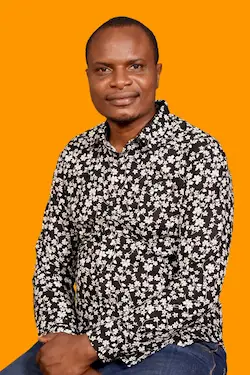
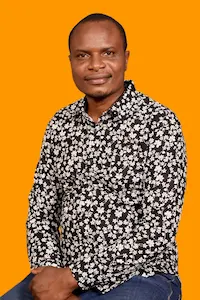
performance 99

diff --git a/styles/base.css b/styles/base.css
@@ -17,9 +17,7 @@ body {
     display: grid;
     grid-template-rows: 1fr auto 1fr;
     grid-row-gap: 20px;
-    max-width: 70vw;
-    min-width: min-content;
-    min-height: min-content;
+    max-width: 70vw;   
 }
 
 .header-content {
@@ -118,6 +116,8 @@ p {
     color: white;
     padding: 0.75rem;
     border-radius: 8px 8px 0 0;
+    white-space: nowrap;
+    
 }
 
 .aside-url {
@@ -139,7 +139,7 @@ p {
 
 .card-content {
     display: grid;
-    grid-template-rows: 4fr auto 4fr;
+    grid-template-rows: auto auto auto; 
 }
 
 .card-name {
@@ -151,27 +151,28 @@ p {
 
 .about-me, .flag {
     display: flex;
-    padding: 0.75rem;
+    margin: 0.75rem;
 }
 
 h3 {
     padding: 0.75rem;
 }
 
-img {
-
-    height: 130px;
-    width: auto;    
+img {        
     border-radius: 8px; 
     box-shadow: 0 4px 8px rgba(0, 0, 0, 0.1); 
     border: none; 
 }
 
 .about-me img {
+    height: 150px;
+    width: auto;
     justify-content: flex-end;
     margin-left: 0.75rem;
 }
 .flag img {
+    height: 100px;
+    width: auto;
     justify-content: flex-start;
     margin-right: 0.75rem;
 }
@@ -189,6 +190,10 @@ img {
 }
 
 @media (max-width: 768px) {
+    .parent {
+        max-width: 90vw;
+    }
+
     .main-content {
         grid-template-columns: 1fr;
         height: auto;
@@ -199,21 +204,25 @@ img {
         
         flex-direction: column;
         align-items: center;
-    }
-        
-    .flag {
         justify-content: center;
-    }    
+        
+    }
     
     .about-me img, .flag img {
-        width: 100%;
+        min-width: 40vw;
+        max-width: 50vw;
         height: auto;
-        margin-top: 0.75rem;
+        margin: 0.75rem auto 0.75rem;
+        
     }
     
     .about-me p, .flag p {
-        text-align: center;
+        text-align: center;        
     }
-    
+
+    .flag P {
+        padding-top: 0.7rem;
+    }
+
 }  
 

diff --git a/scripts/getdates.js b/scripts/getdates.js
@@ -1,8 +1,3 @@
-/**
- * W01 Assignment: Home Page
- * gets the current year and formats the last modified date
- * @author George Olwal
- */
 
 const currentyear = document.querySelector("#currentyear");
 const lastModifiedElement = document.getElementById('lastModified');
